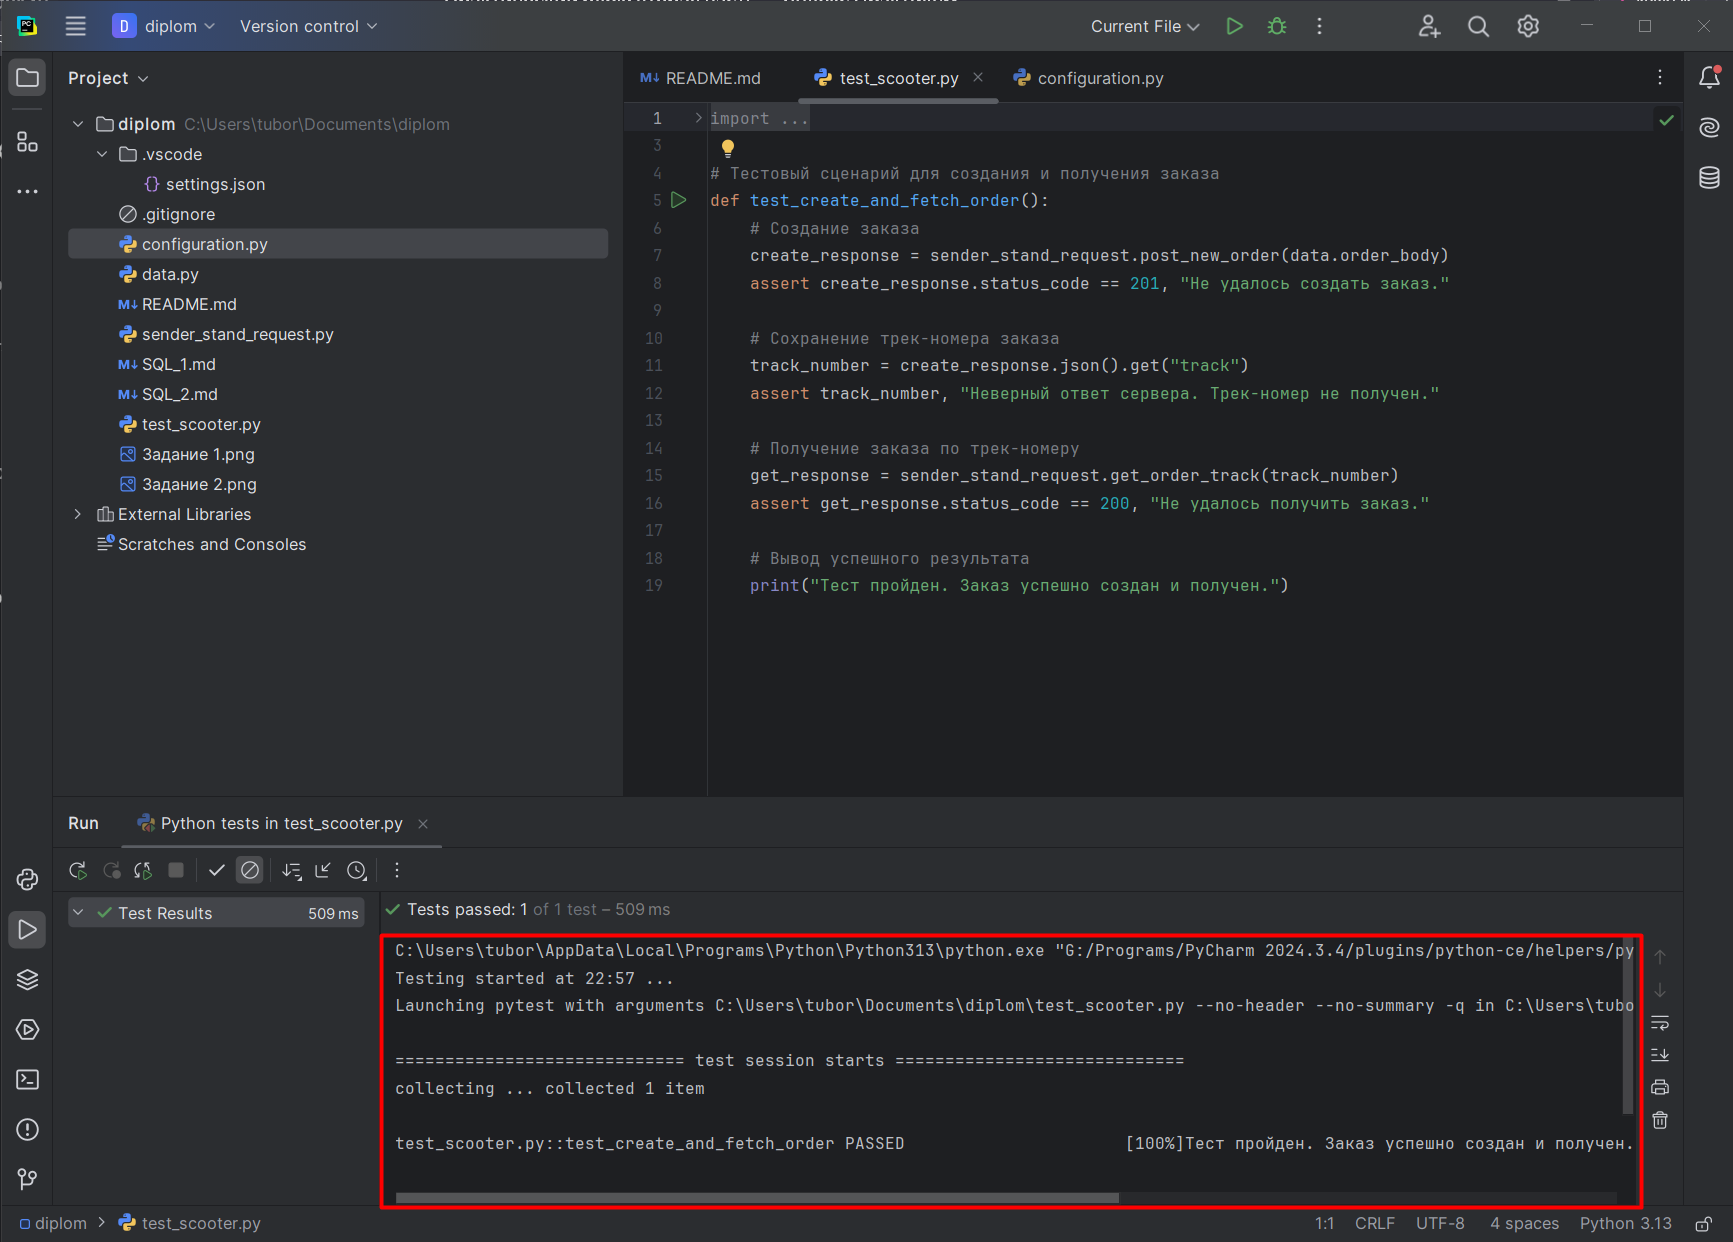
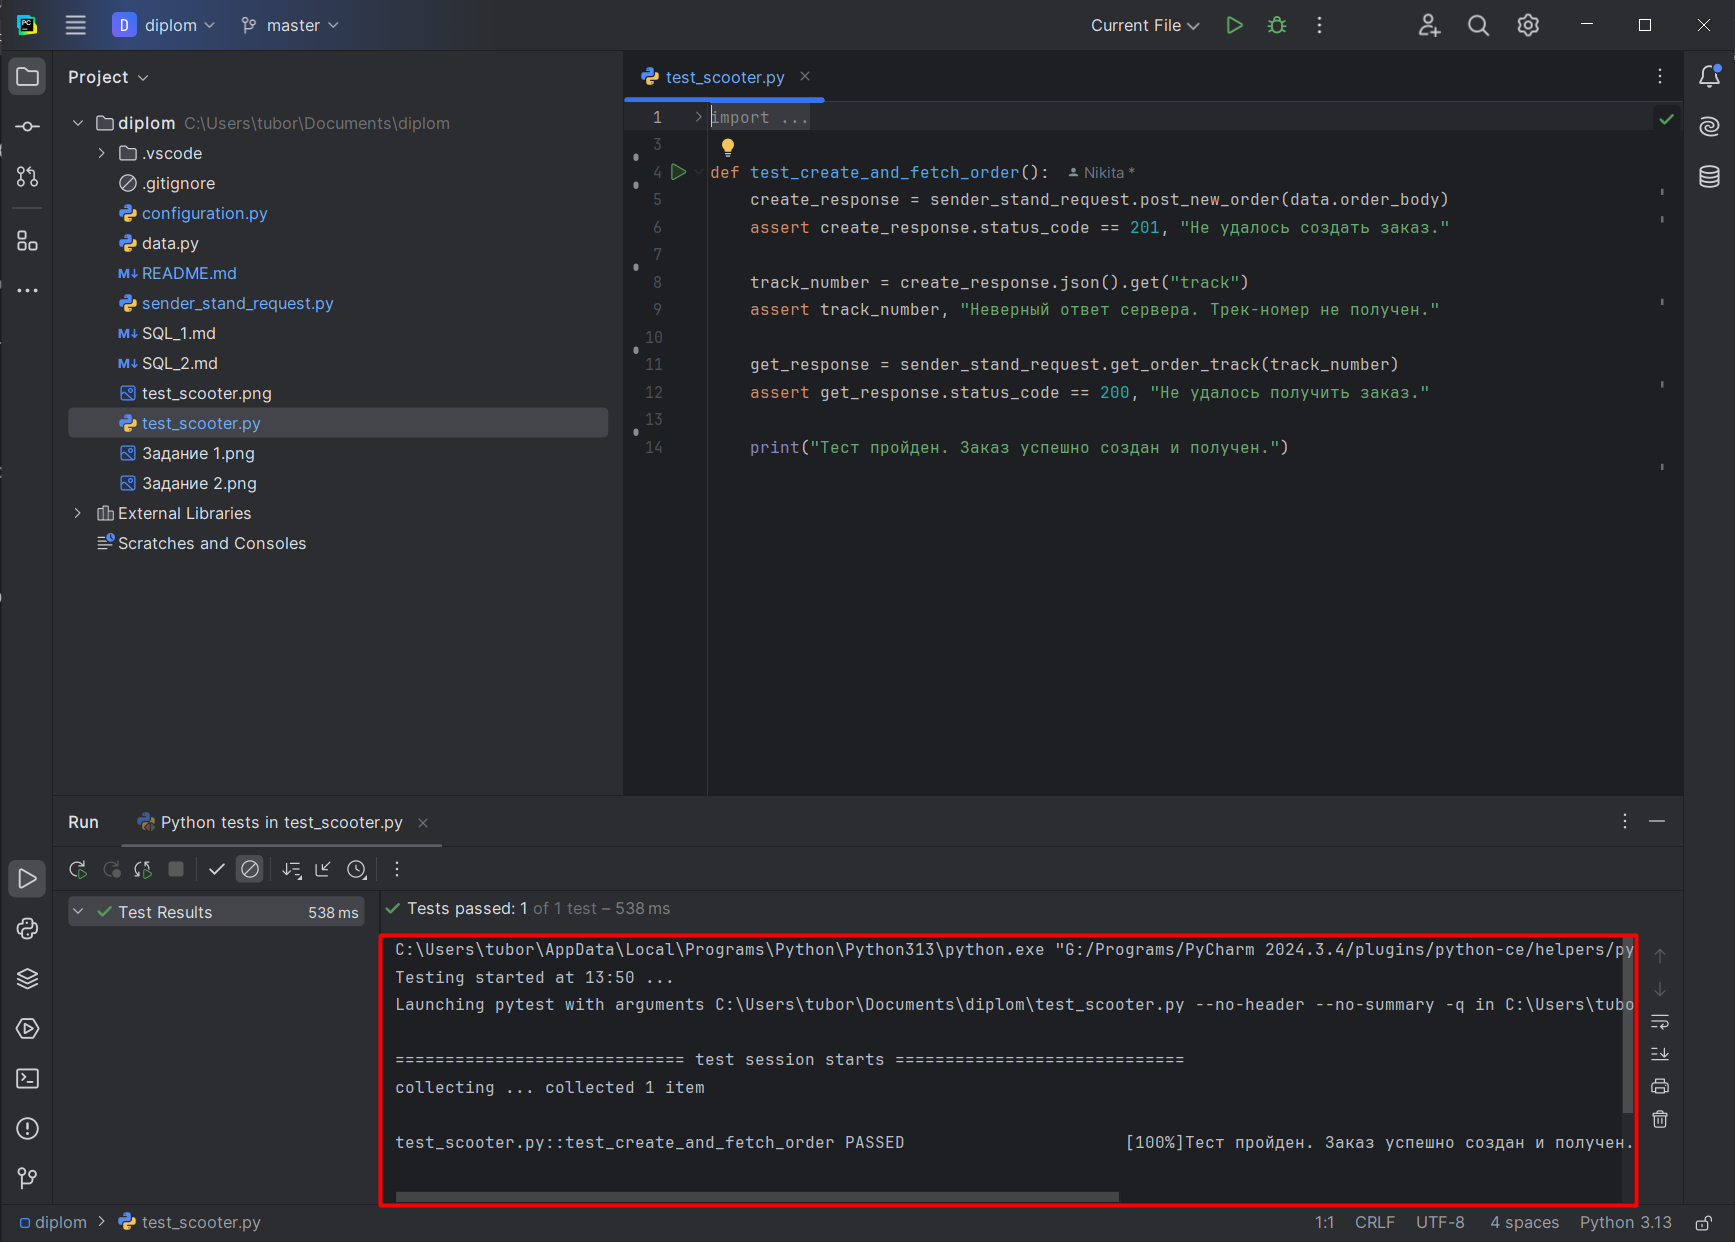
Diplom

diff --git a/test_scooter.py b/test_scooter.py
@@ -1,19 +1,14 @@
 import sender_stand_request
 import data
 
-# Тестовый сценарий для создания и получения заказа
 def test_create_and_fetch_order():
-    # Создание заказа
     create_response = sender_stand_request.post_new_order(data.order_body)
     assert create_response.status_code == 201, "Не удалось создать заказ."
     
-    # Сохранение трек-номера заказа
     track_number = create_response.json().get("track")
     assert track_number, "Неверный ответ сервера. Трек-номер не получен."
     
-    # Получение заказа по трек-номеру
     get_response = sender_stand_request.get_order_track(track_number)
     assert get_response.status_code == 200, "Не удалось получить заказ."
     
-    # Вывод успешного результата
     print("Тест пройден. Заказ успешно создан и получен.")

diff --git a/sender_stand_request.py b/sender_stand_request.py
@@ -2,13 +2,11 @@ import configuration
 import requests
 from data import order_body
 
-# Запрос на создание заказа.
 def post_new_order(order_body):
     url = configuration.URL_SERVICE + configuration.CREATE_ORDERS
     response = requests.post(url, json=order_body)
     return response
 
-# Запрос на получение заказа по его трек-номеру.
 def get_order_track(track_number):
     url = f"{configuration.URL_SERVICE}{configuration.ORDER_TRACK}?t={track_number}"
     response = requests.get(url)

diff --git a/configuration.py b/configuration.py
@@ -1,3 +1,3 @@
-URL_SERVICE = "https://64f9b016-f326-4efa-a1f8-9840c9ee33a4.serverhub.praktikum-services.ru/"
+URL_SERVICE = "https://d1b5fdb0-9707-45f6-bb90-500d5b7ca0ff.serverhub.praktikum-services.ru"
 CREATE_ORDERS = "/api/v1/orders"
 ORDER_TRACK = "/api/v1/orders/track"

diff --git a/README.md b/README.md
@@ -1,27 +1,71 @@
-Работа с базой данных
+Практический Блок
 
-Задание 1
+Первая Часть
+
+Задание 1 - Тестирование функциональности веб-приложения
+Твоя задача — протестировать функциональность «Сделать заказ». Тесты на вёрстку напиши только для одного экрана. Подготовь их в виде чек-листа. Не забудь про кроссбраузерное тестирование. Баг-репорты оформи в YouTrack.
+
+Технические примечания:
+Тестовый стенд веб-приложения: https://{id}.serverhub.praktikum-services.ru/.
+Работа сервера описана в специальной методичке.
+
+Задание 2 - Ретест багов в мобильном приложении
+Теперь возьмись за мобильное приложение. Разработчики исправили баги и отдали в тестирование. Тебе нужно провести ретест.
+
+Технические примечания:
+Чтобы авторизоваться в мобильном приложении, нужно создать курьера. Чтобы создать курьера, изучи документацию к API. Не забудь, что параметры для метода POST передаются в body запроса с типом JSON.
+Чтобы настроить мобильное приложение на взаимодействие с бэкендом, кликни по значку «?» на главном экране в правом нижнем углу. Появится окно ввода. Укажи адрес подключения к API: https://{id}.serverhub.praktikum-services.ru и нажми «Ок».
+
+Документация API: https://{id}.serverhub.praktikum-services.ru/docs/.
+URL, который нужно использовать в запросах к API: https://{id}.serverhub.praktikum-services.ru.
+Баг-репорты находятся здесь. Импортируй их в своё пространство.
+
+Задание 3 - Регрессионное тестирование мобильного приложения по готовым тест-кейсам
+Разработчики подготовили новую версию мобильного приложения. Перед релизом нужно провести регрессионное тестирование.
+
+Подробнее:
+Создай проект в Qase. Вспомни, как создать проект в этом уроке.
+Загрузки в проект тесты. Файл для загрузки — здесь. Вспомни, как это сделать из этой инструкции.
+Загрузи тест-кейсы для регрессионного тестирования в свой проект в Qase.
+
+Вторая Часть
+
+Задание 1 - Работа с базой данных
 Представь: тебе нужно проверить, отображается ли созданный заказ в базе данных.
+
 Для этого: выведи список логинов курьеров с количеством их заказов в статусе «В доставке» (поле inDelivery = true).
 
-Задание 2
+Для выполнения задания необходимо подключиться к базе данных.
+Делать это будем следующим образов:
+1) Генерация ключей для сервера - "ssh-keygen -t rsa"
+2) Вывод публичного ключа - "cat ~/.ssh/id_rsa.pub"
+3) Подключение к удаленному серверу - ssh 894343bc-f2a5-40a8-b171-9899e279f5cf@serverhub.praktikum-services.ru -4554
+4) Доступ к базе осуществляется с помощью команды "psql -U morty -d scooter_rent". Пароль: smith
+5) Создаем курьеров и заказы через запросы в Postman (как в предыдущих заданиях).
+6) При помощи Android Studio заходим в приложение "Scooter", авторизуемся за курьеров и принимаем заказы.
+7) Далее делаем SQL запрос через консоль.
+
+Задание 2 - Работа с базой данных
 Ты тестируешь статусы заказов. Нужно убедиться, что в базе данных они записываются корректно.
-Для этого: выведи все трекеры заказов и их статусы. 
-Статусы определяются по следующему правилу:
+
+Для этого: выведи все трекеры заказов и их статусы.
+
+Правила определения статусов:
 Если поле finished == true, то вывести статус 2.
-Если поле canсelled == true, то вывести статус -1.
+Если поле cancelled == true, то вывести статус -1.
 Если поле inDelivery == true, то вывести статус 1.
 Для остальных случаев вывести 0.
-Технические примечания:
-Доступ к базе осуществляется с помощью команды psql -U morty -d scooter_rent. Пароль: smith.
-У psql есть особенность: если таблица в базе данных с большой буквы, то её в запросе нужно брать в кавычки. Например, select * from “Orders”.
 
-Автоматизация теста к API
+Для выполнения задания №2 необходимо проделать шаги как для задания №1.
+
+Задание 3 - Автоматизация теста к API
 Теперь автоматизируй сценарий, который подготовили коллеги-тестировщики:
+
 Клиент создает заказ.
 Проверяется, что по треку заказа можно получить данные о заказе.
+
 Шаги автотеста:
 Выполнить запрос на создание заказа.
 Сохранить номер трека заказа.
-Выполнить запрос на получения заказа по треку заказа.
+Выполнить запрос на получение заказа по треку заказа.
 Проверить, что код ответа равен 200.
